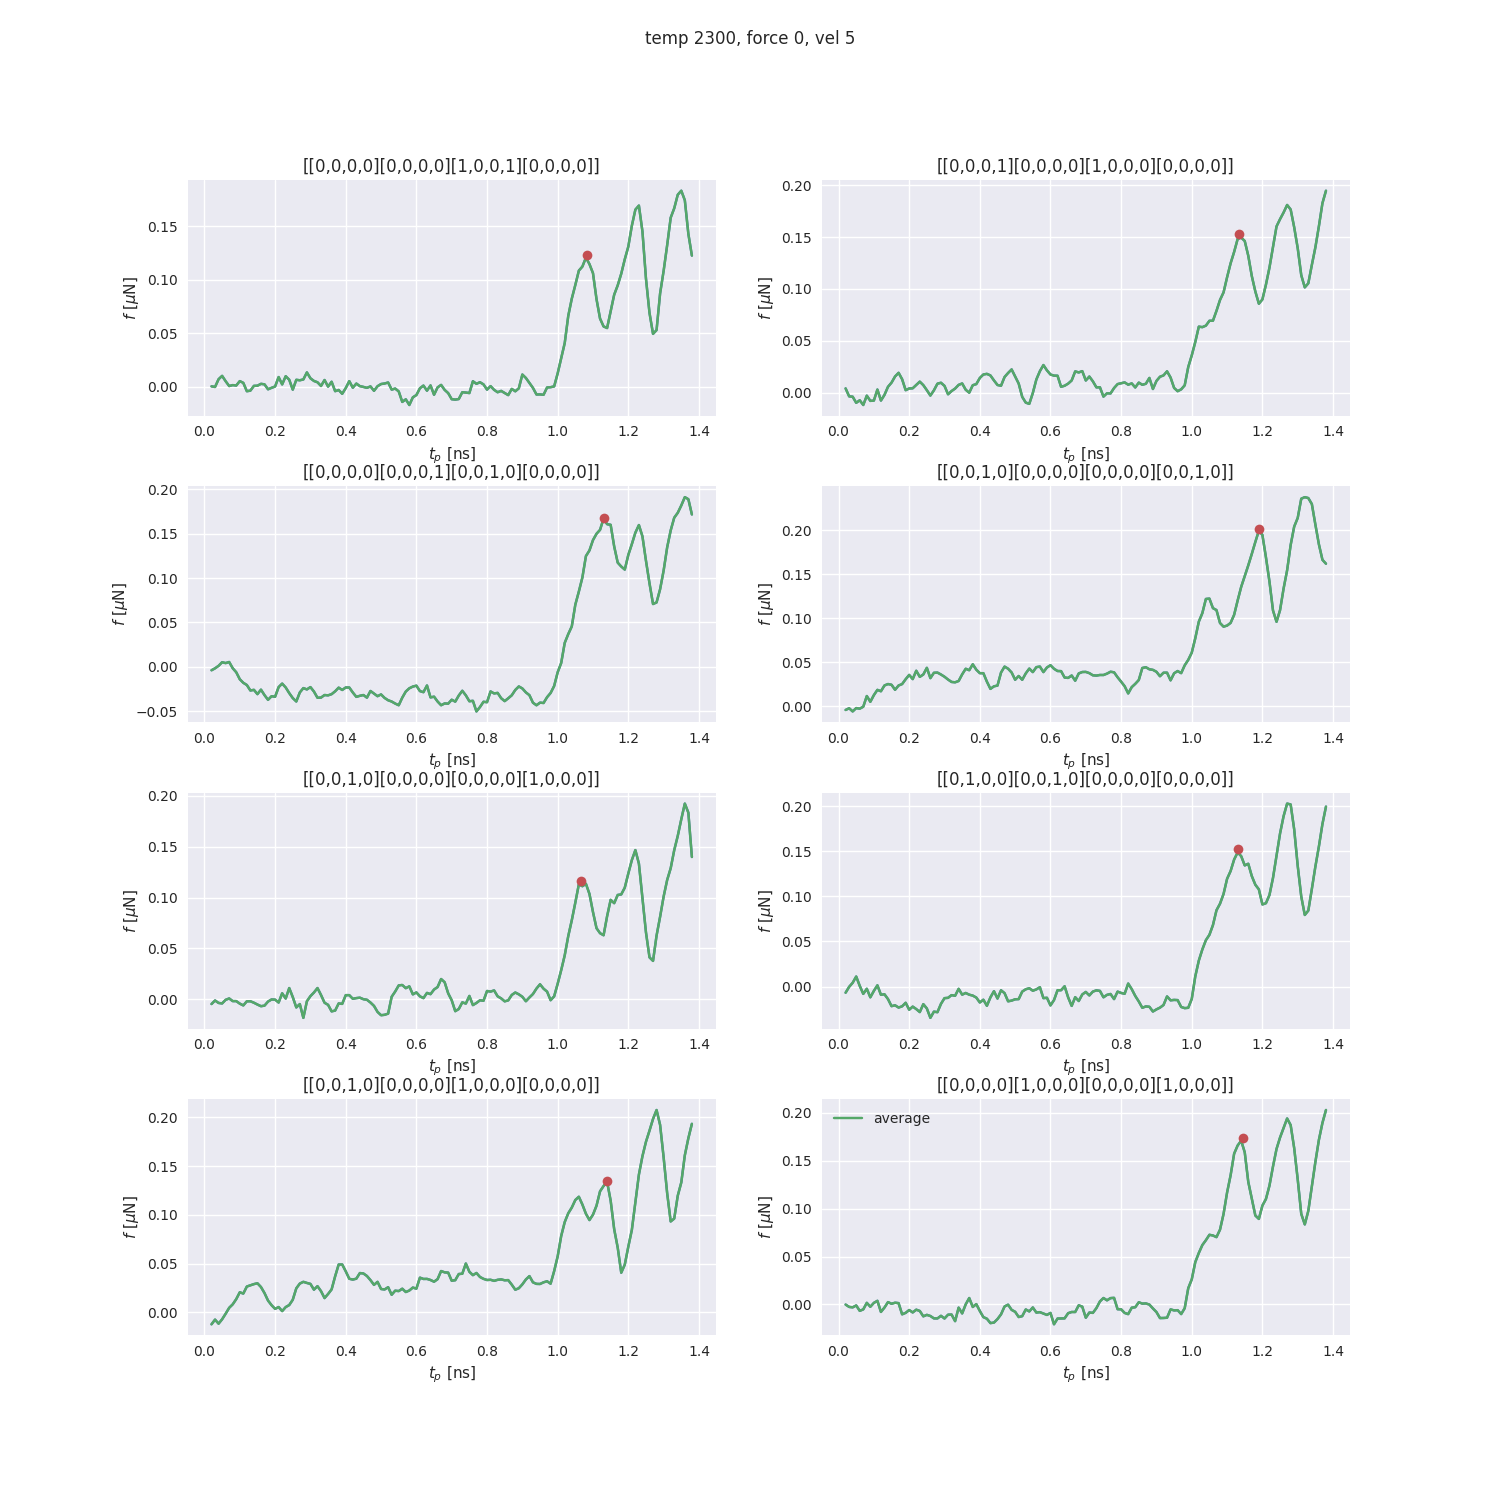
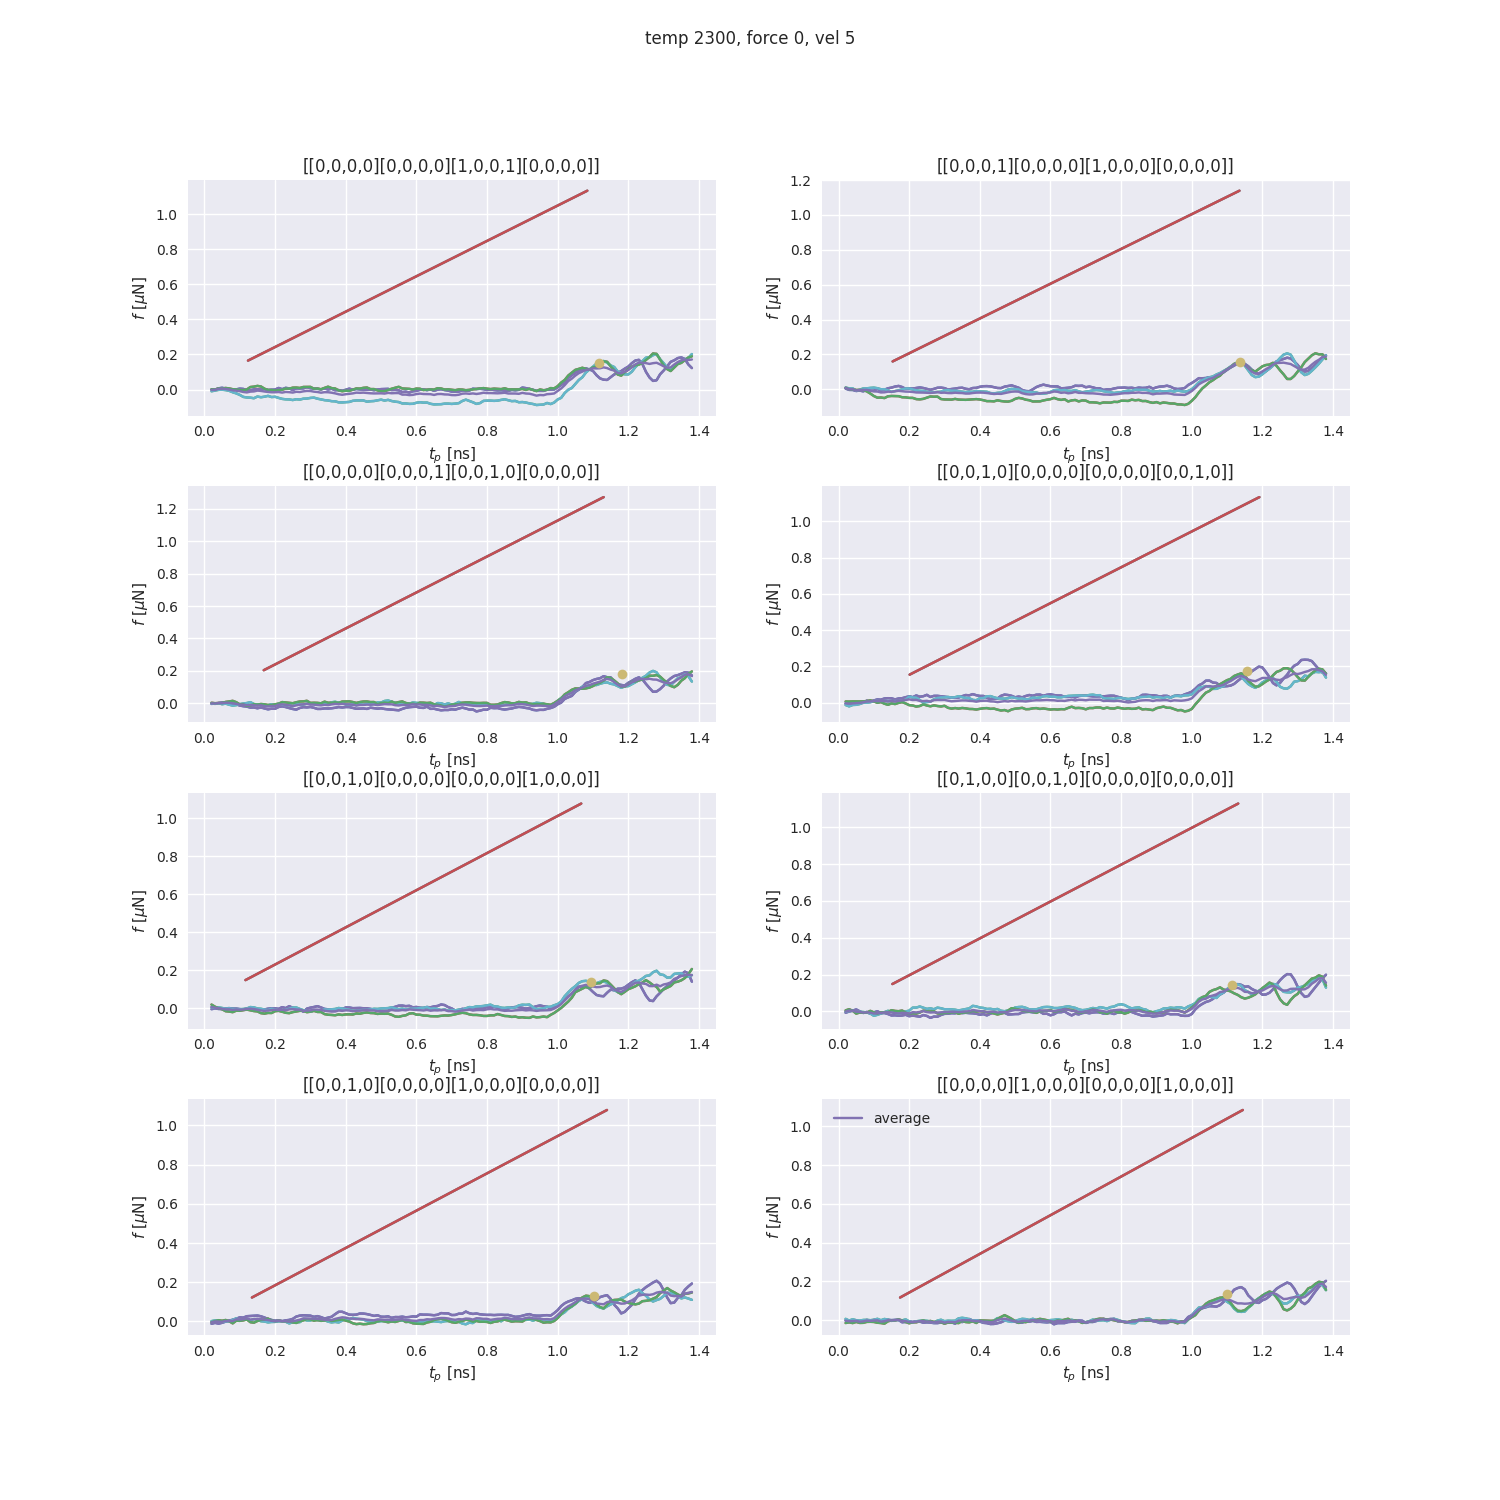
plot upate, all three lines

diff --git a/python/plot/plot_load_curves.py b/python/plot/plot_load_curves.py
@@ -19,14 +19,17 @@ from matplotlib import style
 plt.style.use('seaborn')
 
 
-def load_displacement(temp, vel, force, orientation, grid, disp_files, initnum):
+def load_displacement(temp, vel, force, orientation, grid, disp_template, initnum, seeds):
     disp_all = []
-    print('disp_files ', disp_files)  
-    files = glob(disp_files)
-    assert files != []
-    for _file in glob(disp_files):
-        disp = loadtxt(_file)
-        disp_all.append(disp)
+    for seed in seeds:
+        lc_files = template_lc.format(temp, vel, force, asperities, initnum, seed, grid[0], grid[1])
+        print('disp_files ', disp_files)  
+        files = glob(disp_files)
+        print(files)
+        assert files != []
+        for _file in glob(disp_files):
+            disp = loadtxt(_file)
+            disp_all.append(disp)
     disp_all = np.array(disp_all)
     disp_mean = mean(disp_all, axis=0)
     disp_mean = disp_mean.reshape(-1, np.shape(disp_mean)[0], 2)   # assuming that all curves have 1001 points
@@ -34,15 +37,17 @@ def load_displacement(temp, vel, force, orientation, grid, disp_files, initnum):
     return disp_all, disp_mean
 
 
-def load_load_curves(temp, vel, force, orientation, grid, load_curve_files, template_ms, initnum):
+def load_load_curves(temp, vel, force, asperities, orientation, grid, template_lc, template_ms, initnum, seeds):
     # load load curves
     load_curves_all = []
-   
-    files = glob(load_curve_files)
-    assert files != []
-    for _file in glob(load_curve_files):
-        load_curves = loadtxt(_file)
-        load_curves_all.append(load_curves)
+    for seed in seeds: 
+        load_curve_files = template_lc.format(temp, vel, force, asperities, initnum, seed, grid[0], grid[1])
+        print('load curve files: ', load_curve_files) 
+        files = glob(load_curve_files)
+        assert files != []
+        for _file in glob(load_curve_files):
+            load_curves = loadtxt(_file)
+            load_curves_all.append(load_curves)
     load_curves_all = np.array(load_curves_all)
     load_curves = mean(load_curves_all, axis=0)
     load_curves = load_curves.reshape(-1, np.shape(load_curves)[0], 2)   # assuming that all curves have 1001 points
@@ -50,28 +55,21 @@ def load_load_curves(temp, vel, force, orientation, grid, load_curve_files, temp
     return load_curves_all, load_curves
 
 
-def load_max_static(temp, vel, force, orientation, grid, template_lc, ms_files, seeds):
+def load_max_static(temp, vel, force, asperities, orientation, grid, template_lc, template_ms, initnum, seeds):
     ms_all = []
-    files = glob(ms_files)
-    # ms files: time [nS] max friction [mN] 
-    assert files != []
-    for file in glob(ms_files):
-        if isinstance(seeds, int): #if seed is single int
-            if str(seeds) in str(file):
-                time, ms = loadtxt(file)
-                ms_all.append((time,ms))
-
-        else: #seed is list
-            for seed in seeds:
-                if str(seed) in str(file):
-                    time, ms = loadtxt(file)
-                    ms_all.append((time,ms))
-    if isinstance(seeds, int):
-        return ms_all
-    else:
+    
+    for seed in seeds:
+        ms_files = template_ms.format(temp, vel, force, asperities, initnum, seed, 4, 4)
+        files = glob(ms_files)
+        # ms files: time [nS] max friction [mN] 
+        assert files != []
+        
+        for file in glob(ms_files):
+            time, ms = loadtxt(file)
+            ms_all.append((time,ms))
 
         mean_static = mean(ms_all, axis = 0)
-        return ms_all , mean_static
+    return ms_all , mean_static
 
 
 #def plot_max_static_for_speeds():
@@ -374,8 +372,9 @@ def plot_production(temp, vel, force, uc, asperities, time, orientation, grid, e
 
     fig, axs = plt.subplots(4,2, figsize = (15,15))
     axs = axs.ravel()
-    #initseed = {0: 77800, 1:36173, 2:47530, 3:33479, 4:92732, 5:31470, 6:81050, 7:49079, 8:20661, 9:45424, 10:52221, 11:27048} 
-    initseed = {0: 14242, 1:63957, 2:97531, 3:57211, 4:56100, 5:91155, 6:46070, 7:30380}
+    initseed = {0: (14242, 34053, 83209), 1: (63957, 39961, 44381), 2: (97531, 42921, 73117), 
+                3: (57211, 15726, 22462), 4: (56100, 42618, 84851), 5: (91155, 23293, 52590), 
+                6: (46070, 10490, 48691), 7: (30380, 48331, 49978)}
 
     man_init = {0:'[[0,0,0,0][0,0,0,0][1,0,0,1][0,0,0,0]]', 1:'[[0,0,0,1][0,0,0,0][1,0,0,0][0,0,0,0]]',
                 2:'[[0,0,0,0][0,0,0,1][0,0,1,0][0,0,0,0]]', 3:'[[0,0,1,0][0,0,0,0][0,0,0,0][0,0,1,0]]',
@@ -383,31 +382,30 @@ def plot_production(temp, vel, force, uc, asperities, time, orientation, grid, e
                 6:'[[0,0,1,0][0,0,0,0][1,0,0,0][0,0,0,0]]', 7:'[[0,0,0,0][1,0,0,0][0,0,0,0][1,0,0,0]]'}
 
     print(template_lc)
-    for i, (initnum, seed) in enumerate(initseed.items()):
-        
-        lc_files = template_lc.format(temp, vel, force, asperities, initnum, seed, grid[0], grid[1])
-        load_curves_all, load_curves_mean= load_load_curves(temp, vel, force, asperities,
-                                                    grid, lc_files,template_ms, initnum)
-         
-        ms_all = load_max_static(temp, vel, force, orientation, grid,
-                                 template_lc, template_ms.format(temp, vel, force, asperities, 
-                                                                 initnum, seed, 4, 4), 
-                                 seed)
-
+    for i, (initnum, seeds) in enumerate(initseed.items()):
+        load_curves_all, load_curves_mean= load_load_curves(temp, vel, force, asperities, orientation,
+                                                    grid, template_lc,template_ms, initnum, seeds)
+        ms_all, ms_mean = load_max_static(temp, vel, force, asperities, orientation, grid,
+                                 template_lc, template_ms, initnum, seeds)
 
         #extract system setup from auxiliary folder
-        with open (template_aux.format(asperities, uc, temp, force, asperities, time, 
-                   initnum, seed, asperities, uc, initnum)) as fp:
-            aux_dict = json.loads(fp.read())
-        aux_dict['erratic'] = np.asarray(aux_dict['erratic'])
+        #with open (template_aux.format(asperities, uc, temp, force, asperities, time, 
+        #           initnum, seed, asperities, uc, initnum)) as fp:
+        #    aux_dict = json.loads(fp.read())
+        #aux_dict['erratic'] = np.asarray(aux_dict['erratic'])
 
         for curve in load_curves_all: #NOTE aux dict had issues, can be used for later
             axs[i].plot(curve[:,0], curve[:,1])
-    
+        
+        for load_curve in load_curves_all:
+            axs[i].plot(load_curve[:,0], load_curve[:,1])
+            axs[i].plot(ms_all[0], ms_all[1]) #this is just proprietary
+
         print('mean load curves shape: ',load_curves_mean.shape)
         print('all load curves shape: ',load_curves_all.shape)
+        print(' mean max static shape: ', ms_mean.shape)
         axs[i].plot(load_curves_mean[0,:,0], load_curves_mean[0,:,1], label = 'average')
-        axs[i].plot(ms_all[0][0], ms_all[0][1], 'o')
+        axs[i].plot(ms_mean[0], ms_mean[1], 'o')
         axs[i].set_xlabel(r"$t_p$ [ns]")
         axs[i].set_ylabel(r"$f$ [$\mu$N]")
         axs[i].set_title(man_init[i])
